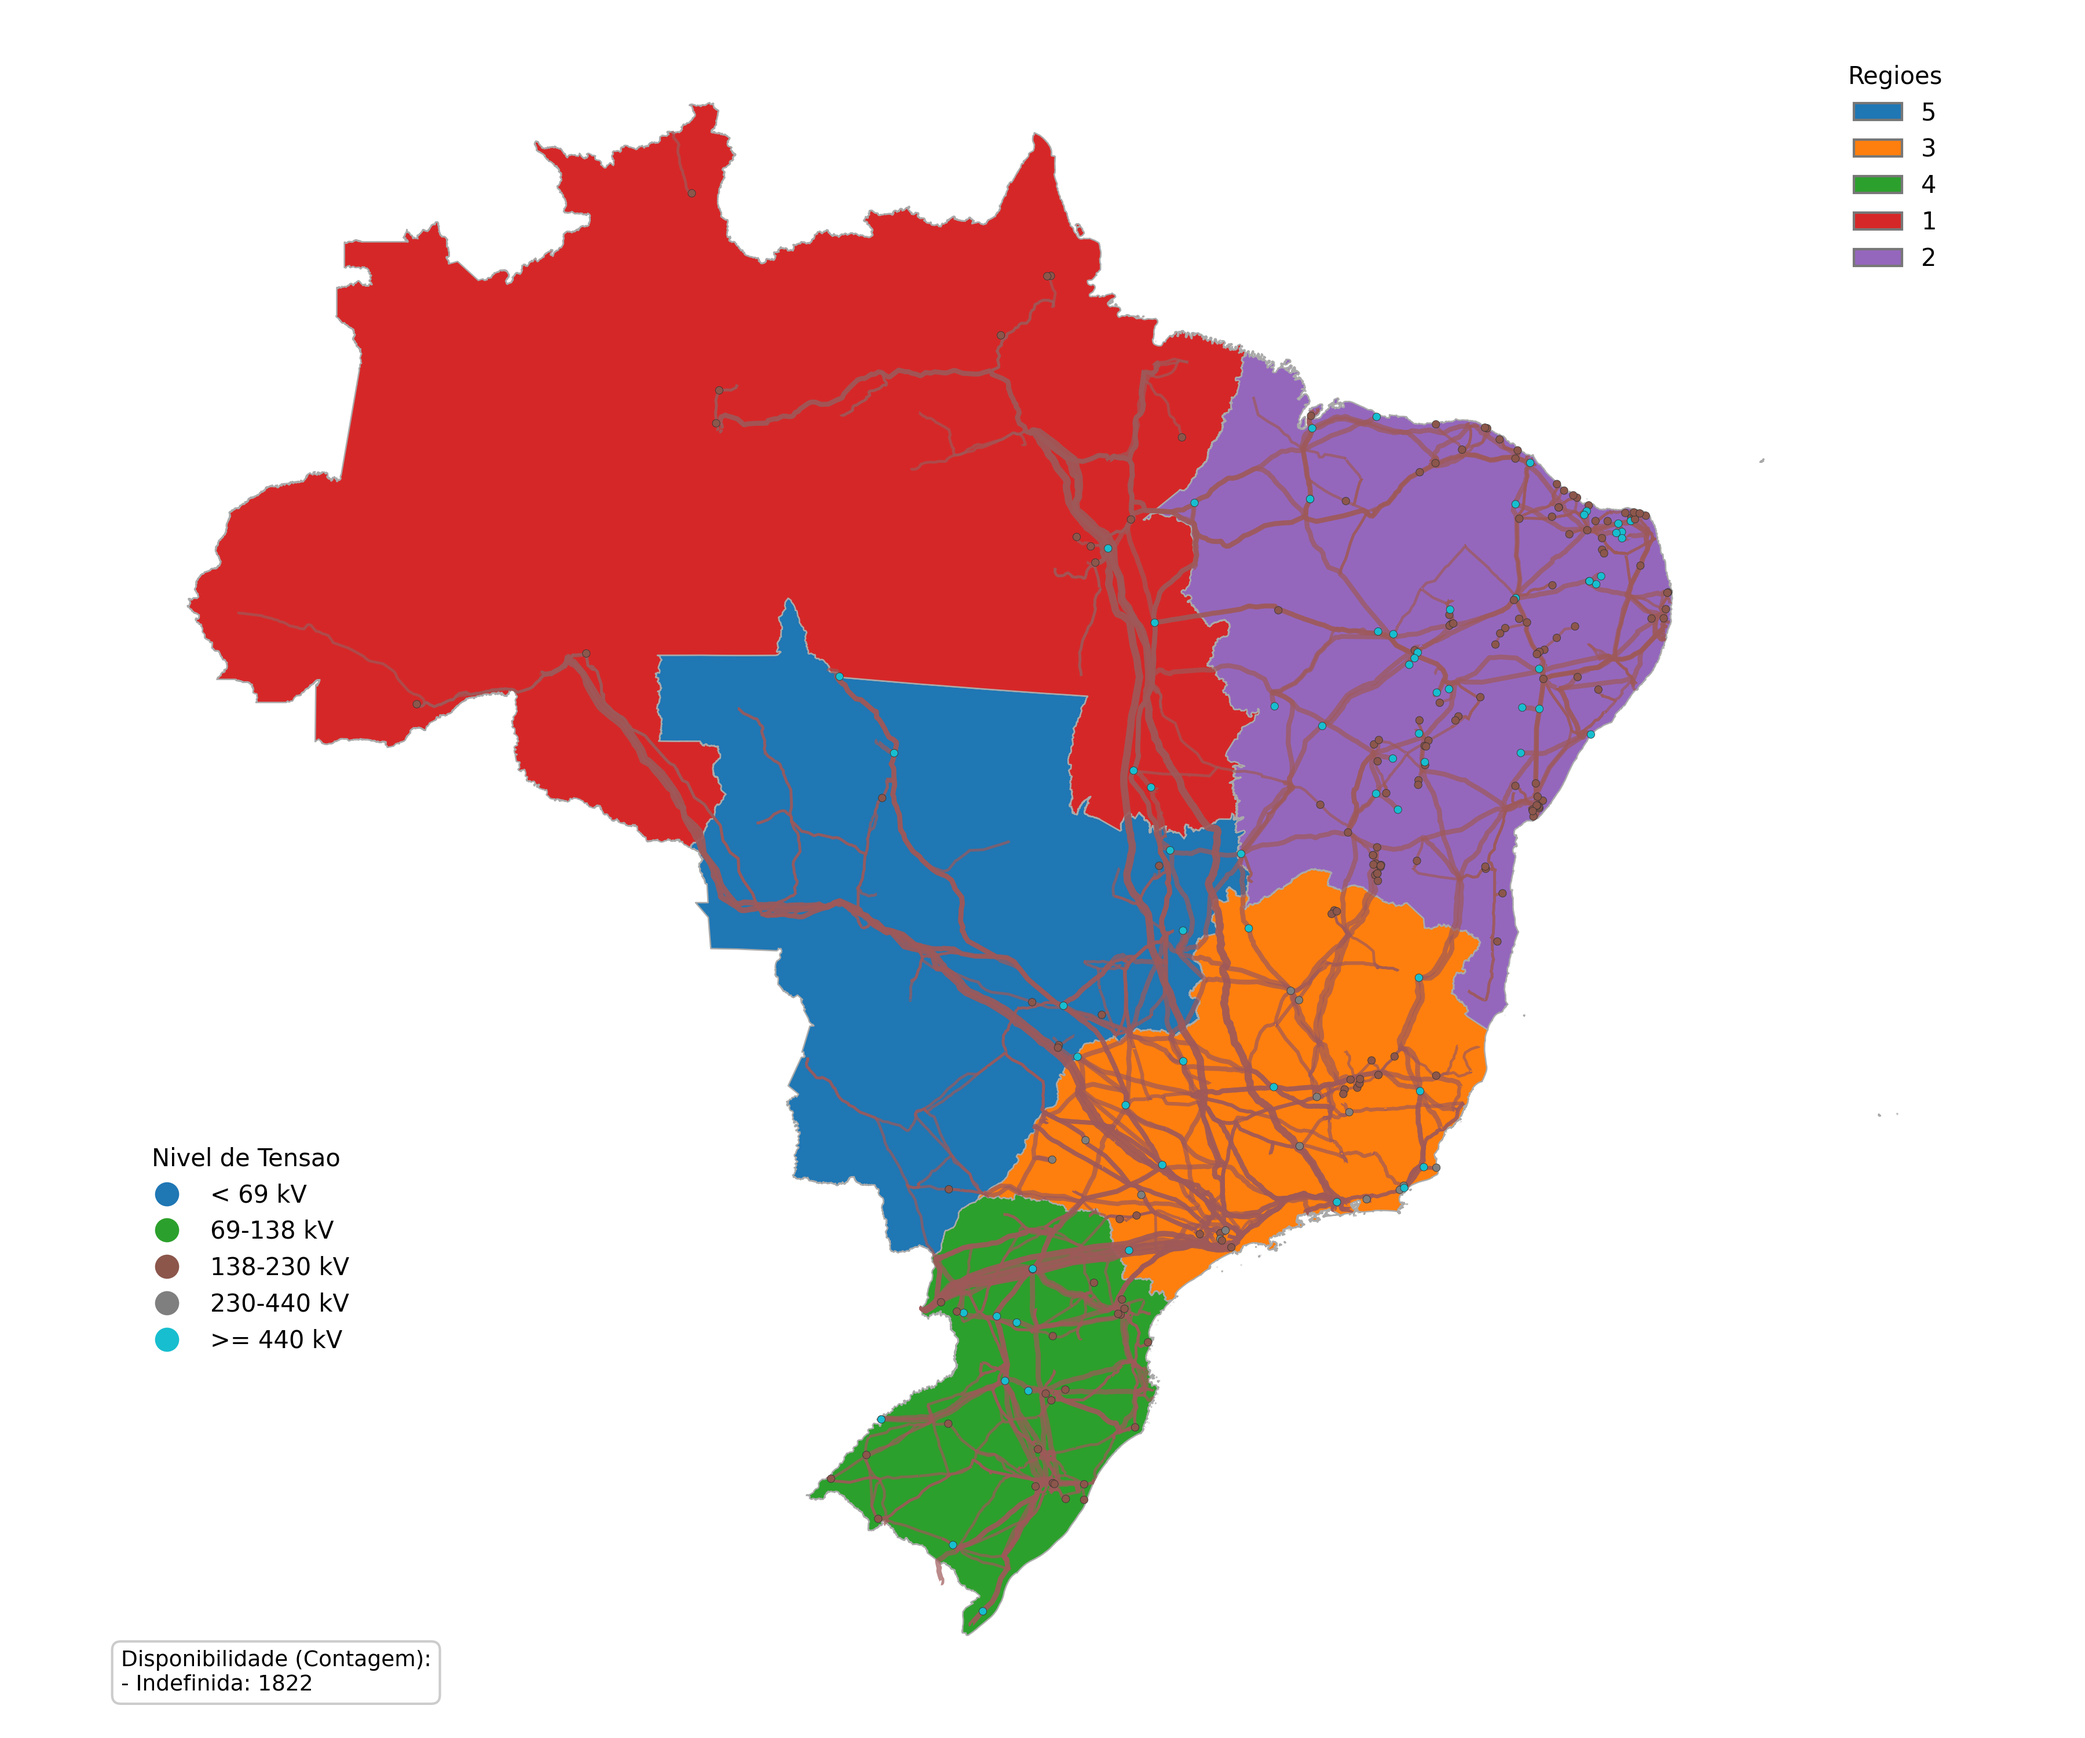
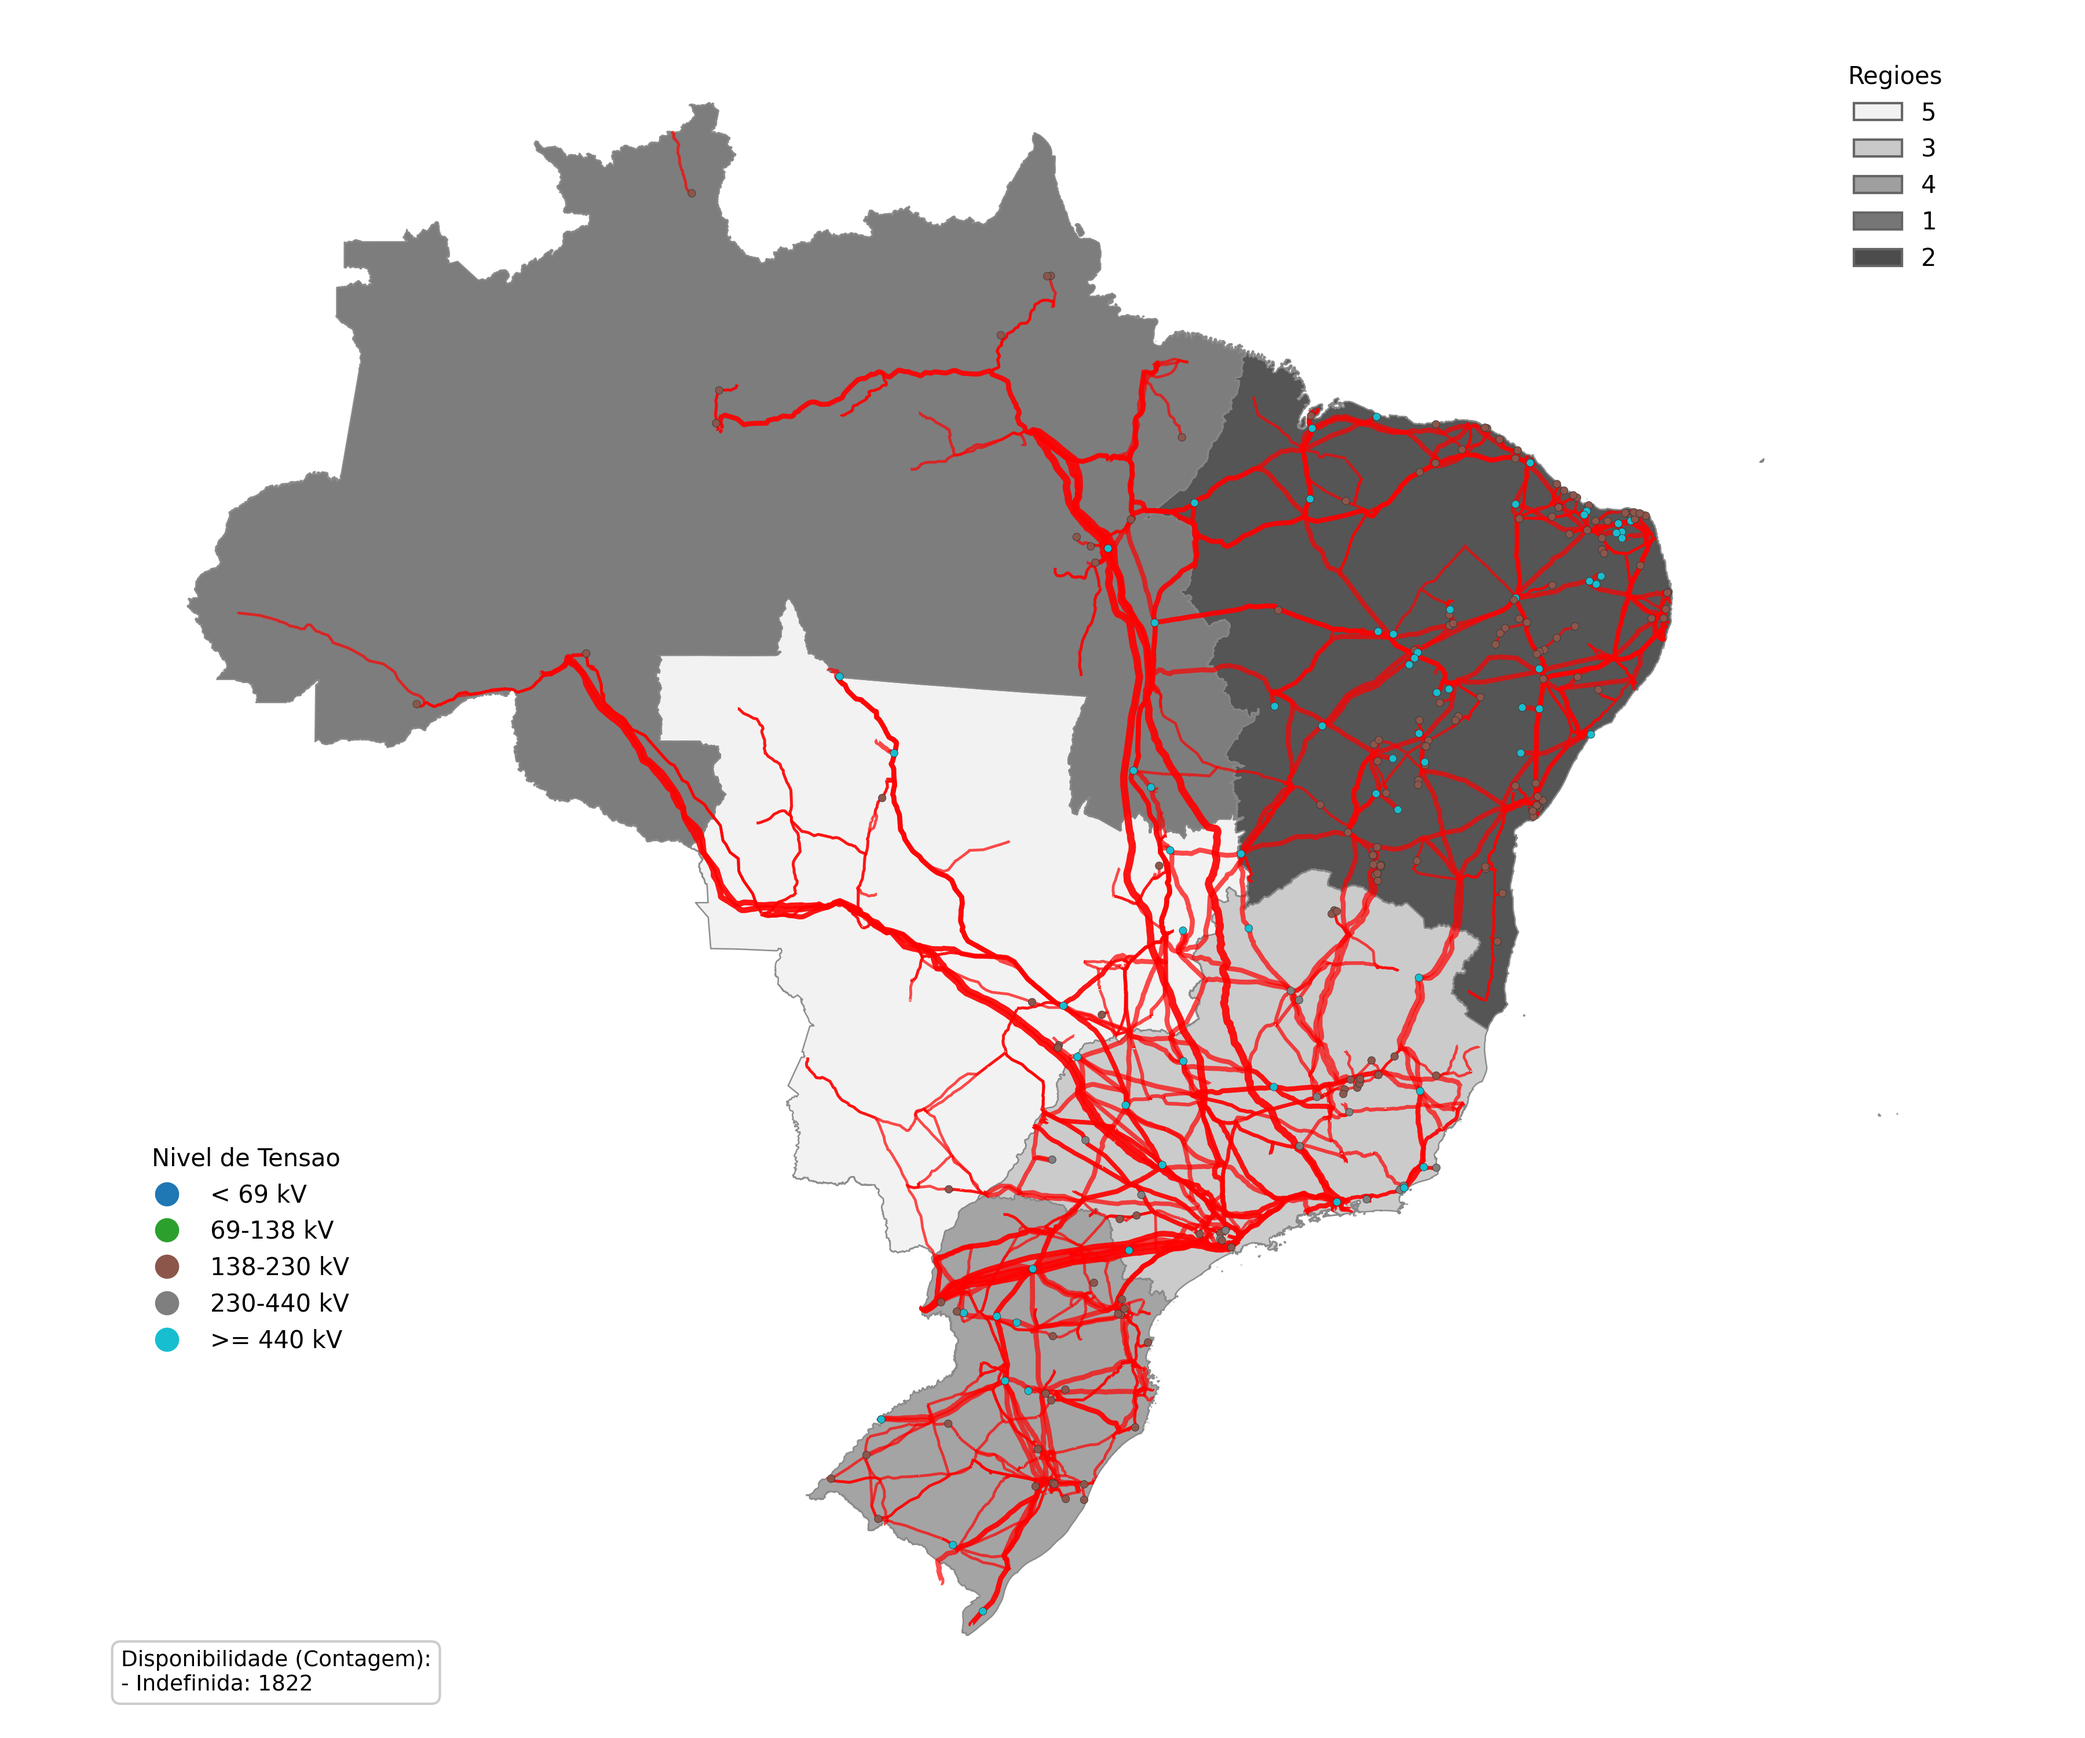
pronto pra terminar a análise

Changed region(s): [[0.0933, 0.062, 0.8089, 0.93], [0.8711, 0.062, 0.9333, 0.155]]

diff --git a/src/plot_substations.py b/src/plot_substations.py
@@ -6,6 +6,7 @@ import pandas as pd
 import geopandas as gpd
 import matplotlib.pyplot as plt
 from matplotlib.patches import Patch
+from matplotlib.colors import to_rgba
 
 warnings.filterwarnings("ignore", category=UserWarning)
 
@@ -293,15 +294,25 @@ def main():
     fig, ax = plt.subplots(figsize=(12, 10))
     ax.set_aspect("equal")
 
-    # Regioes com cores distintas + legenda
+    # Regioes com paleta em tons de cinza (do branco ao cinza escuro)
     unique_regs = list(gdf_regioes["REGIAO_NOME"].astype(str).unique())
-    cmap = plt.get_cmap("tab10" if len(unique_regs) <= 10 else ("tab20" if len(unique_regs) <= 20 else "hsv"))
-    reg_colors = {reg: cmap(i % cmap.N) for i, reg in enumerate(unique_regs)}
+    n_regs = len(unique_regs)
+
+    def _gray_shade(idx: int) -> tuple:
+        # idx: 0..n_regs-1 -> retorna tom de cinza entre quase branco (0.95) e escuro (0.30)
+        if n_regs <= 1:
+            v = 0.95
+        else:
+            v = 0.95 - (0.65 * idx / (n_regs - 1))
+        v = max(0.0, min(1.0, v))
+        return (v, v, v, 1.0)
+
+    reg_colors = {reg: _gray_shade(i) for i, reg in enumerate(unique_regs)}
     gdf_regioes = gdf_regioes.copy()
     gdf_regioes["_color"] = gdf_regioes["REGIAO_NOME"].map(reg_colors)
-    gdf_regioes.plot(ax=ax, color=gdf_regioes["_color"], edgecolor="#aaaaaa", linewidth=0.6)
+    gdf_regioes.plot(ax=ax, color=gdf_regioes["_color"], edgecolor="#888888", linewidth=0.6, alpha=0.95)
 
-    handles = [Patch(facecolor=reg_colors[r], edgecolor="#777777", label=r) for r in unique_regs]
+    handles = [Patch(facecolor=reg_colors[r], edgecolor="#666666", label=r) for r in unique_regs]
     reg_legend = ax.legend(handles=handles, title="Regioes", loc="upper right", bbox_to_anchor=(0.99, 0.99), frameon=False)
     ax.add_artist(reg_legend)
 
@@ -334,10 +345,10 @@ def main():
                 except Exception:
                     lw_float = 0.8
                 gpd.GeoSeries([geom], crs=gdf_lines.crs).plot(
-                    ax=ax, color="#9e5959", linewidth=lw_float, alpha=0.7, zorder=1
+                    ax=ax, color="#ff0000", linewidth=lw_float, alpha=0.7, zorder=1
                 )
         else:
-            gdf_lines.plot(ax=ax, color="#9e5959", linewidth=0.8, alpha=0.7, zorder=1)
+            gdf_lines.plot(ax=ax, color="#ff0000", linewidth=0.8, alpha=0.7, zorder=1)
 
     # Pontos (subestacoes) com categorias de tensao
     class_order = ["< 69 kV", "69-138 kV", "138-230 kV", "230-440 kV", ">= 440 kV"]
